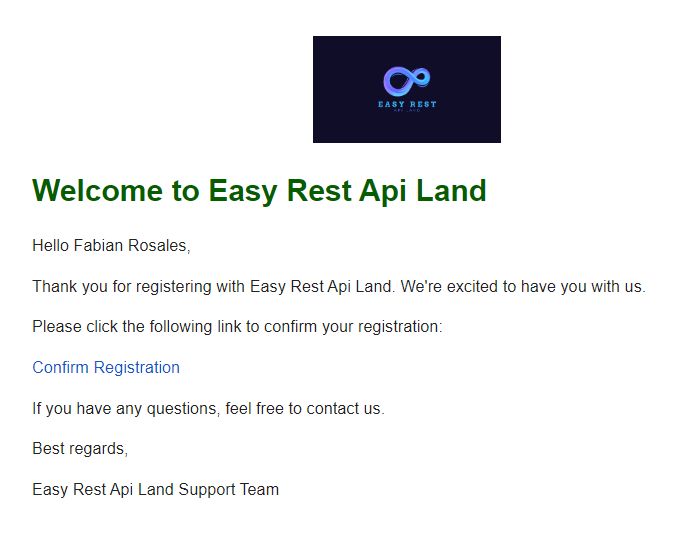
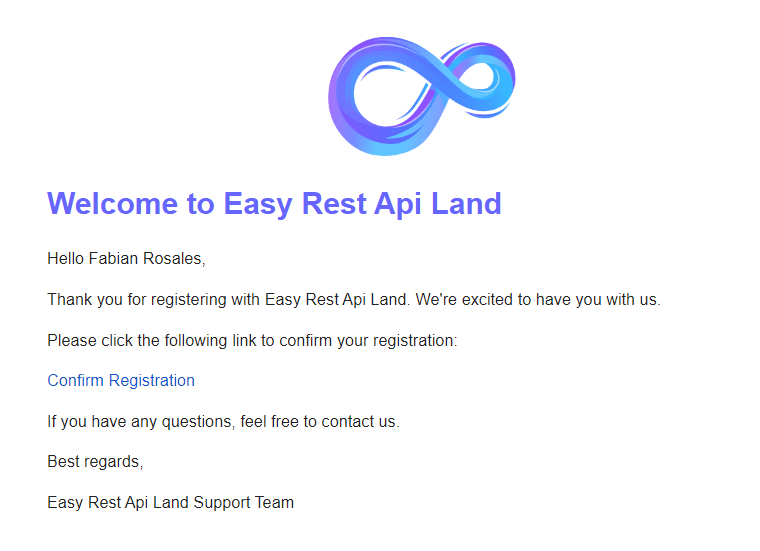
some images

diff --git a/email_templates/active_account_page.html b/email_templates/active_account_page.html
@@ -39,14 +39,14 @@
 
         /* Título */
         h1 {
-            color: #4040FF;
+            color: #6666FF;
             font-size: 24px;
             margin-top: 0;
         }
 
         /* Enlace */
         a {
-            color: #4040FF;
+            color: #6666FF;
             text-decoration: none;
         }
 

diff --git a/email_templates/forgot_password_email.html b/email_templates/forgot_password_email.html
@@ -39,14 +39,14 @@
 
         /* Título */
         h1 {
-            color: #4040FF;
+            color: #6666FF;
             font-size: 24px;
             margin-top: 0;
         }
 
         /* Enlace */
         a {
-            color: #4040FF;
+            color: #6666FF;
             text-decoration: none;
         }
 

diff --git a/email_templates/generic_template_email.html b/email_templates/generic_template_email.html
@@ -39,14 +39,14 @@
 
         /* Título */
         h1 {
-            color: #4040FF;
+            color: #6666FF;
             font-size: 24px;
             margin-top: 0;
         }
 
         /* Enlace */
         a {
-            color: #4040FF;
+            color: #6666FF;
             text-decoration: none;
         }
 

diff --git a/email_templates/register_email.html b/email_templates/register_email.html
@@ -39,14 +39,14 @@
 
         /* Título */
         h1 {
-            color: #4040FF;
+            color: #6666FF;
             font-size: 24px;
             margin-top: 0;
         }
 
         /* Enlace */
         a {
-            color: #4040FF;
+            color: #6666FF;
             text-decoration: none;
         }
 

diff --git a/README.md b/README.md
@@ -143,7 +143,7 @@ COMPANY_FRONT_END_HOST="http://localhost:3000/"
 COMPANY_RESET_PASS_FRONT_END_URL="password_reset/"
 
 #This is the color of the emails titles
-COMPANY_MAIN_COLOR="#4040FF"
+COMPANY_MAIN_COLOR="#6666FF"
 
 # this is the domain of the email logo
 COMPANY_DOMAIN="https://www.example.com"
